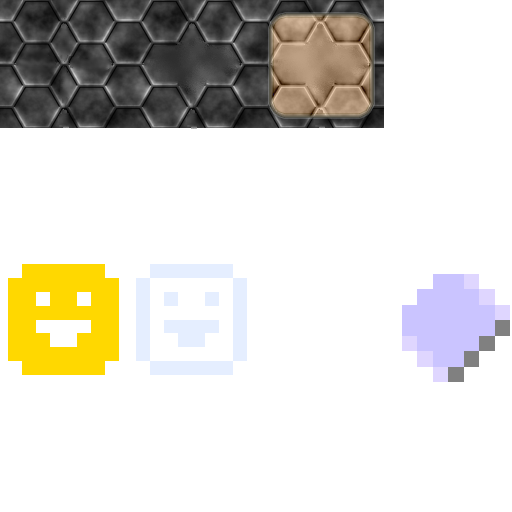
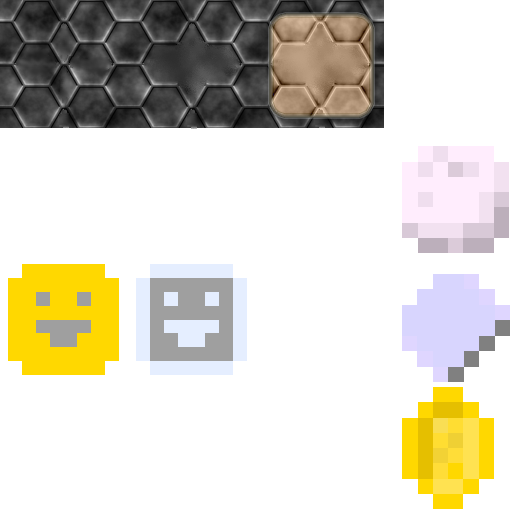
Entity collision (You can pick up gems now for score), Redid texture for alpha blending, and new items.

diff --git a/app.cpp b/app.cpp
@@ -18,7 +18,6 @@
 #include <sstream>
 #include <iomanip>
 
-#include <time.h>
 #include <math.h>
 #include <gtc/matrix_transform.hpp>
 
@@ -46,13 +45,7 @@ App::App()
 	//i.LoadFile("font.png");
 	prog.SetTexture(i);
 
-	player = new Player();
-	player->x = 5.0f;
-	player->y = 5.0f;
-	//player->zoom = 1.0f;
-	player->SetModelMatrix();
 
-	//entities.push_back(player);
 
 	gamemap.Create(MAP_WIDTH, MAP_HEIGHT);
 
@@ -60,7 +53,6 @@ App::App()
 
 	//Factory::GetInstance().program1.SetTexture(&gamemap.tiletexture);
 
-	srand(time(nullptr));
 
 	GenMap();
 }
@@ -77,7 +69,7 @@ void App::GenMap()
 	for (int i = 1; i < 100; ++i)
 	{
 		float lx = RandFloat(1.0f, gamemap.mapsizex);
-		float ly = RandFloat(1.0f, gamemap.mapsizex);
+		float ly = RandFloat(1.0f, gamemap.mapsizey);
 
 		int li = RandInt(0, lights_array.size()-1);
 		int type = RandInt(0, 2);
@@ -87,7 +79,37 @@ void App::GenMap()
 		AddDlight(glm::vec2{lx, ly}, lights_array[li].second, r, type);
 	}
 
+	//add in some gems
+	for (int i = 1; i < 100; ++i)
+	{
+		int gx = RandInt(0, gamemap.mapsizex);
+		int gy = RandInt(0, gamemap.mapsizey);
 
+		entities.push_back(new Gem(gx, gy));
+	}
+
+
+	if (player == nullptr)
+	{
+		player = new Player();
+		player->x = 5.0f;
+		player->y = 5.0f;
+		//player->zoom = 1.0f;
+		player->SetModelMatrix();
+	}
+	else
+	{
+		Player *p2 = new Player();
+		p2->x = player->x;
+		p2->y = player->y;
+		p2->rot = player->rot;
+		p2->SetModelMatrix();
+
+		delete player;
+		player = p2;
+	}
+
+	//entities.push_back(player);
 	gamemap.ClearArea(player->x, player->y);
 
 
@@ -100,10 +122,11 @@ void App::GenMap()
 
 void App::ClearEntities()
 {
-	for (auto *i : entities)
+	for (Entity *i : entities)
 	{
 		delete i;
 	}
+	entities.clear();
 }
 
 App::~App()
@@ -166,11 +189,33 @@ void App::Update(float dt)
 	UpdatePlayer(dt);
 
 
+	gamemap.ReSetAmbient();  //Clear last frame's dynamic lights
+
+
 	player->Update(dt);
 	for (Entity *e : entities)
 	{
 		e->Update(dt);
+
+		DLight *l = e->GetLight();
+		if (l){
+			gamemap.DynamicLight(glm::vec2(e->x, e->y), l->colour, l->radius);
+		}
 	}
+
+	//Delete finished entities (probably a better way to do this)
+	for (auto i = entities.begin();  i != entities.end(); )
+	{
+		if ((*i)->done)
+		{
+			delete (*i);
+			entities.erase(i);
+			i = entities.begin();
+			continue;
+		}
+		i++;
+	}
+
 
 	UpdateWorld();
 
@@ -185,8 +230,6 @@ void App::UpdateWorld()
 	ambientcolour[0] = sinf(runtime);
 	ambientcolour[1] = cosf(runtime);
 	ambientcolour[2] = 0.8f;
-
-	gamemap.ReSetAmbient();  //Clear last frame's dynamic lights
 
 	//Tile *ht = gamemap.FindNearest(hover);
 	//if (ht) { ht->SetAmbient(ambientcolour * 2.0f); }
@@ -244,6 +287,14 @@ void App::UpdateWorld()
 	gamemap.Update();
 }
 
+bool intersects(Entity *e1, Entity *e2)
+{
+	float radii = e1->radius + e2->radius;
+	float distance = glm::distance( glm::vec2(e1->x, e1->y), glm::vec2(e2->x, e2->y));
+
+	return (radii > distance);
+}
+
 void App::UpdatePlayer(float dt)
 {
 	float dx = 0.0f;
@@ -255,6 +306,18 @@ void App::UpdatePlayer(float dt)
 	if (moving_down) dy += 1.0f;
 
 	if (dx or dy) PlayerMove(dx, dy, dt);
+
+	for (Entity *e : entities)
+	{
+		if (intersects(player, e))
+		{
+			if (Gem *gem = dynamic_cast<Gem*>(e))
+			{
+				e->done = true;
+				player->score++;
+			}
+		}
+	}
 }
 
 
@@ -399,10 +462,14 @@ void App::Render()
 
 	for (Entity *e : entities)
 	{
-		e->Draw(cam, mapcam);
+		Tile *t = gamemap.FindNearest(glm::vec2(e->x, e->y));
+		glm::vec3 col = t ? t->GetCol() : glm::vec3(1.0, 1.0, 1.0);
+		e->Draw(cam, mapcam, col);
 	}
 
-	player->Draw(cam, mapcam);
+	Tile *t = gamemap.FindNearest(glm::vec2(player->x, player->y));
+	glm::vec3 col = t ? t->GetCol() : glm::vec3(1.0, 1.0, 1.0);
+	player->Draw(cam, mapcam, col);
 
 	RenderGUI();
 
@@ -422,7 +489,11 @@ void App::RenderGUI()
 	cursorpos << "(" << hover.x << "," << hover.y << ")  Dynamic Lights " << dlights.size() << " (Culled " << cull_count
 				<< " offscreen lights)  Entities " << entities.size();
 
-	font.Draw(ortho, 10, APP_HEIGHT - 12, 12, "This is some status line text.  42  " + cursorpos.str());
+
+	std::stringstream statusline;
+	statusline << "Score " << player->score << "    ";
+
+	font.Draw(ortho, 10, APP_HEIGHT - 12, 12, statusline.str() + cursorpos.str());
 
 	std::stringstream status_light;
 	status_light << "(Current light Colour) " << CurrentLightName << ", Radius " << current_light_radius;

diff --git a/entity.cpp b/entity.cpp
@@ -10,6 +10,9 @@
 #include "entity.h"
 #include "colours.h"
 
+//for DLight
+#include "app.h"
+
 #include <glm.hpp>
 #include <gtc/matrix_transform.hpp>
 
@@ -28,10 +31,7 @@ inline void TileQuad(Primitive &prim, float zoom, int x, int y, int gridx, int g
 }
 
 Factory::Factory()
-: program1(), vb1()
-, prim_player1(vb1)
-, prim_player2(vb1)
-, prim_gem(vb1)
+: program1(), vb1(), prim_player1(vb1), prim_player2(vb1), prim_gem(vb1)
 {
 	LOG("Factory()");
 
@@ -42,6 +42,7 @@ Factory::Factory()
 	image1.SetBlend(GL_SRC_ALPHA, GL_ONE_MINUS_SRC_ALPHA);
 
 	program1.SetTexture(image1);
+	program2.SetTexture(image1);
 
 	TileQuad(prim_player1, 1.0, 0, 2, 4, 4, 512);
 	TileQuad(prim_player2, 1.0, 1, 2, 4, 4, 512);
@@ -88,20 +89,36 @@ void Entity::Update(float dt)
 Player::Player()
 {
 	zoom = 0.5f;
+	skin = RandInt(0, 2);
 }
 
 Player::~Player()
 {
 
 }
+
 void Player::Update(float dt)
 {
 }
 
-void Player::Draw(const glm::mat4 &proj, const glm::mat4 &view)
+void Player::Draw(const glm::mat4 &proj, const glm::mat4 &view, const glm::vec3 &backgroundcol)
 {
-	Factory::GetInstance().program1.SetCamera(proj, view * model_matrix);
-	Factory::GetInstance().program1.Draw(Factory::GetInstance().prim_player1);
+	Factory::GetInstance().program2.SetCamera(proj, view * model_matrix);
+	Factory::GetInstance().program2.SetDrawColour(glm::vec4(backgroundcol, 1.0f));
+
+	if (skin == 0)
+	{
+		Factory::GetInstance().program2.Draw(Factory::GetInstance().prim_player1);
+	}
+	else
+	{
+		Factory::GetInstance().program2.Draw(Factory::GetInstance().prim_player2);
+	}
+}
+
+DLight* Player::GetLight()
+{
+	return nullptr;
 }
 
 Gem::Gem(float x, float y)
@@ -119,12 +136,17 @@ void Gem::Update(float dt)
 
 }
 
-void Gem::Draw(const glm::mat4 &proj, const glm::mat4 &view)
+void Gem::Draw(const glm::mat4 &proj, const glm::mat4 &view, const glm::vec3 &backgroundcol)
 {
-	glm::vec4 col{0.4f, 0.9f, 0.5f, 0.8f};
+	glm::vec4 col {0.4f, 0.9f, 0.5f, 1.0f};
 
 	Factory::GetInstance().program2.SetCamera(proj, view * model_matrix);
-	Factory::GetInstance().program2.SetDrawColour(col);
+	Factory::GetInstance().program2.SetDrawColour(col * glm::vec4(backgroundcol, 1.0f));
 	Factory::GetInstance().program2.Draw(Factory::GetInstance().prim_gem);
 }
 
+DLight * Gem::GetLight()
+{
+	static DLight gemlight (glm::vec2(0,0), glm::vec3 (0.7, 1.0, 0.7), 5, 1);
+	return &gemlight;
+}

diff --git a/entity.h b/entity.h
@@ -39,12 +39,15 @@ public:
 	static Factory &GetInstance();
 };
 
+class DLight;
 
 class Entity
 {
 public:
 	Entity();
 	virtual ~Entity();
+
+	bool done = false;
 
 	glm::mat4 model_matrix;
 
@@ -58,18 +61,26 @@ public:
 
 	virtual void Update(float dt);
 
-	virtual void Draw(const glm::mat4 &proj, const glm::mat4 &view){ THROW(Exception,"Shouldnt be here"); }
+	virtual void Draw(const glm::mat4 &proj, const glm::mat4 &view, const glm::vec3 &backgroundcol){ THROW(Exception,"Shouldnt be here"); }
 
+	virtual DLight* GetLight() { return nullptr; }
 };
 
 
 class Player : public Entity
 {
 public:
+	int skin = 0;
+
+	int score = 0;
+
 	Player();
 	virtual ~Player();
 	void Update(float dt);
-	void Draw(const glm::mat4 &proj, const glm::mat4 &view);
+	void Draw(const glm::mat4 &proj, const glm::mat4 &view,  const glm::vec3 &backgroundcol);
+
+	DLight* GetLight();
+
 };
 
 
@@ -80,7 +91,9 @@ public:
 	virtual ~Gem();
 
 	void Update(float dt);
-	void Draw(const glm::mat4 &proj, const glm::mat4 &view);
+	void Draw(const glm::mat4 &proj, const glm::mat4 &view,  const glm::vec3 &backgroundcol);
+
+	DLight* GetLight();
 };
 
 #endif /* _LASTY_LD24_ENTITY_H_ */

diff --git a/main.cpp b/main.cpp
@@ -13,9 +13,10 @@
 
 #include "opengl.h"
 
+#include <time.h>
+
 int run(int argc, char *argv[])
 {
-
 	auto InitFlags = SDL_INIT_VIDEO | SDL_INIT_TIMER;
 
 	if (SDL_Init(InitFlags) < 0)
@@ -158,10 +159,13 @@ void ChangeDirectoryToHere(char* argv0)
 
 #endif
 
+
 int main(int argc, char *argv[])
 {
 	LOG("Hello LD world!");
 	LOGf("Hi %s ", "there");
+
+	srand(time(nullptr));
 
 	int ret = 0;
 	try

diff --git a/tileboard.h b/tileboard.h
@@ -43,6 +43,9 @@ protected:
 
 
 public:
+
+	glm::vec3 GetCol() const { return colour; }
+
 	bool block_light = false;
 	bool block_movement = false;
 
